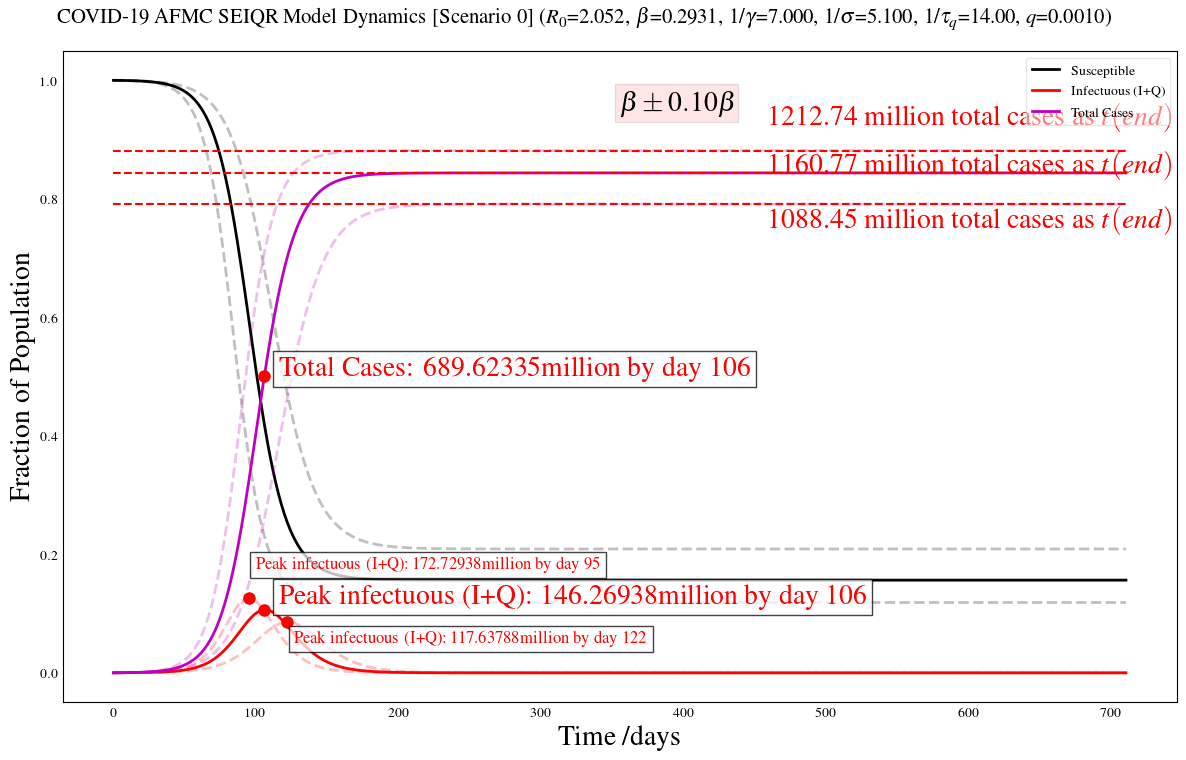
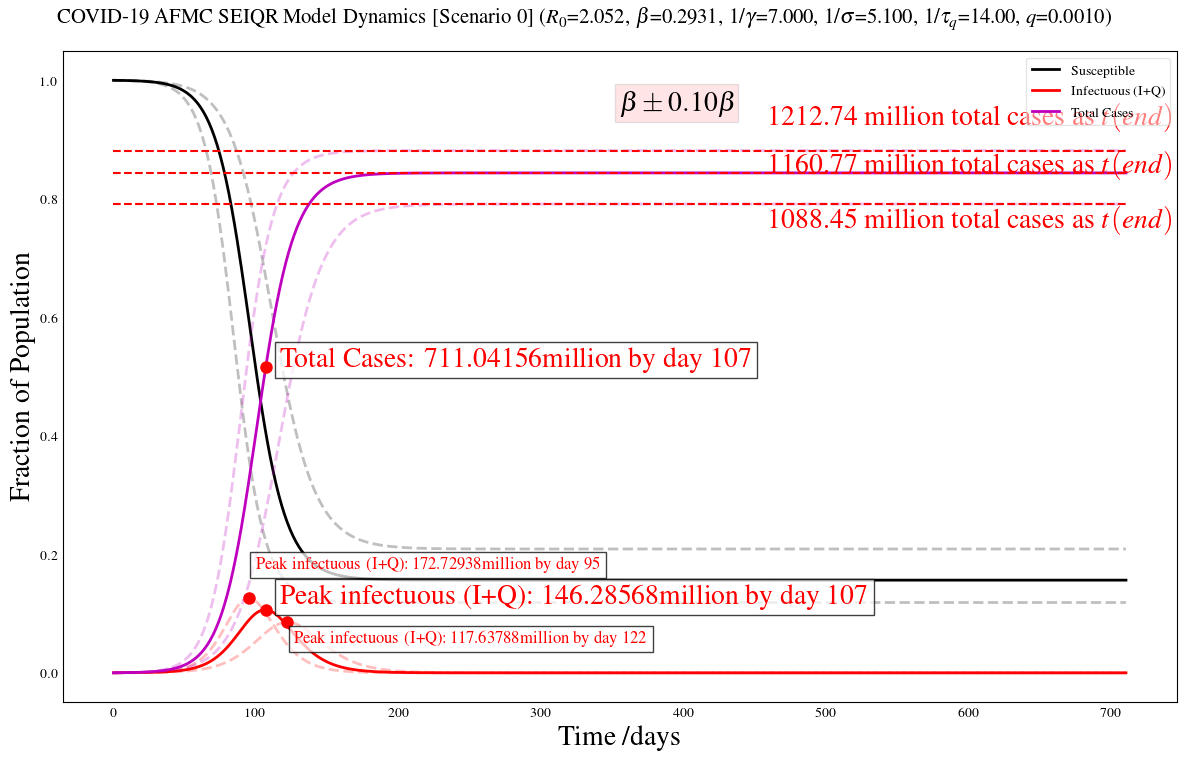
Changes to afmc plots

Changed region(s): [[0.2184, 0.4237, 0.6551, 0.5145], [0.2184, 0.7566, 0.7487, 0.8171]]

diff --git a/epimodels/utils.py b/epimodels/utils.py
@@ -449,7 +449,7 @@ def plotSEIQR_evolutionErrors(txt_title, SEIQRparams, S_variables, E_variables, 
     print('r0 = ', r0_test, '1 - Sinf/S0 = ', One_SinfN[0])    
 
     print('*****   Results    *****')
-    peak_inf_idx =  np.argmax(I)
+    peak_inf_idx =  np.argmax(Inf)
     peak_inf     = Inf[peak_inf_idx]
     print('Peak Instant. Infected = ', peak_inf,'by day=', peak_inf_idx)
 
@@ -459,11 +459,11 @@ def plotSEIQR_evolutionErrors(txt_title, SEIQRparams, S_variables, E_variables, 
     total_cases     = T[-1]
     print('Total Cases when growth linear = ', total_cases)
 
-    peak_inf_plus_idx =  np.argmax(I_plus)
+    peak_inf_plus_idx =  np.argmax(Inf_plus)
     peak_inf_plus     = Inf_plus[peak_inf_plus_idx]
     print('Peak Instant. Infected - Error= ', peak_inf_plus,'by day=', peak_inf_plus_idx)
 
-    peak_inf_minus_idx =  np.argmax(I_minus)
+    peak_inf_minus_idx =  np.argmax(Inf_minus)
     peak_inf_minus     = Inf_minus[peak_inf_minus_idx]
     print('Peak Instant. Infected + Error= ', peak_inf_minus,'by day=', peak_inf_minus_idx)
 

diff --git a/sensitivity_afmcSEIQR_model_sigma.py b/sensitivity_afmcSEIQR_model_sigma.py
@@ -78,7 +78,7 @@ scenario = 0
 # infection rate 
 r0                  = 2.28      
 beta                = r0 / gamma_inv
-# sigma_inv_AFMC    = 5.1
+sigma_inv_AFMC    = 5.1
 sigma_inv_AFMC    = 11.5
 
 # Variables for beta samples
